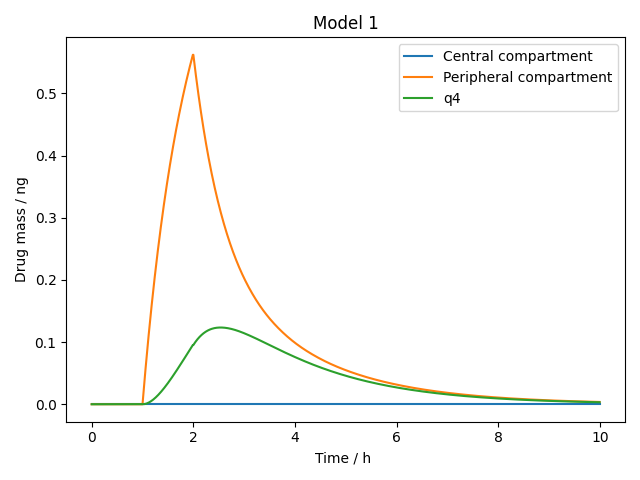
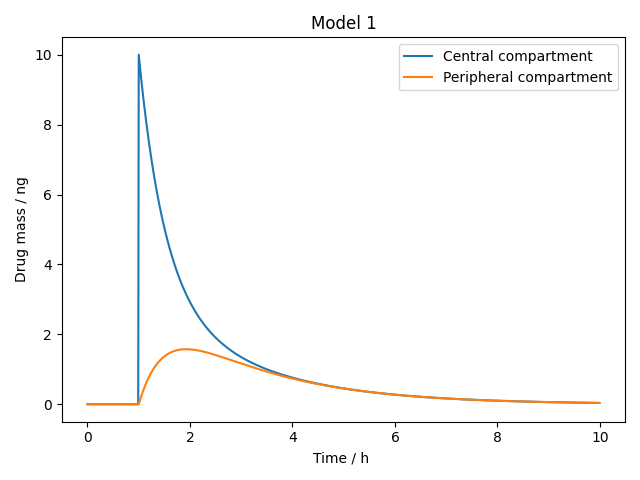
Modify output.py

diff --git a/pkmodel_zxara/output.py b/pkmodel_zxara/output.py
@@ -18,26 +18,27 @@ def plotPK(time, concentration, dosage_comp, n_models=1):
 
     import matplotlib.pyplot as plt
   
-    fig, axes = plt.subplots(nrows= 1, ncols= n_models)
+    fig, axes = plt.subplots(nrows=1, ncols= n_models)
     ylabel = 'Drug mass / ng' # TODO: Conc?
     xlabel = 'Time / h '
-    legend = ['Dosage compartment', 'Central compartment', 'Peripheral compartment', 'q4', 'q5']
+    legend = ['Central compartment']
 
-    # # Strip dosage compartment data if non-existant
-    # if dosage_comp == []:
-    #     np.delete(time, 0, 1)
-    #     np.delete(concentration, 0, 1)
-    #     legend.remove('Dosage compartment')
+    # Strip dosage compartment data if non-existant
+    if dosage_comp == []:
+        time = np.delete(time, 0, 1)
+        concentration = np.delete(concentration, 0, 1)
 
-    if n_models == 1: #otherwise error that AxesSubplot object is not subscriptable
+    if n_models == 1: # Otherwise error that AxesSubplot object is not subscriptable
         axes.plot(time, concentration)
         axes.set_title('Model 1')
         axes.set_ylabel(ylabel)
         axes.set_xlabel(xlabel)
+
+        # Create legend
         axes.legend(legend)
     
     # TODO: Fix for multiple models
-    #  else: 
+    #  else:
 
     #     for i in range(n_models):
             
@@ -48,13 +49,9 @@ def plotPK(time, concentration, dosage_comp, n_models=1):
     #         axes[i].set_xlabel(xlabel)
     #         axes[i].legend(legend)
     
-    
     fig.tight_layout()
     fig.savefig("PKplot.png")
     plt.show()
-
-# plotPK(np.array([[1,2,3],[2,3,1],[3,1,2]]), np.array([[4,5,6],[5,6,4],[6,4,5]])) # this is how i thought the input would look like
-
 
 
 def save_csv(model,dosing_array,max_time,filename):

diff --git a/pkmodel_zxara/core.py b/pkmodel_zxara/core.py
@@ -3,28 +3,31 @@ from model import Model
 import PK_model_setup as pkmod
 from output import *
 
-# Collect model input data 
-central = central_input()
-peripherals = peripheral_input()
-dosage = dosage_input()
+# # Collect model input data 
+# central = central_input()
+# peripherals = peripheral_input()
+# dosage = dosage_input()
 
-sys_model = Model(central, peripherals, dosage) # Create Model object
+# sys_model = Model(central, peripherals, dosage) # Create Model object
 
-# Collect protocol input data
-dosing_array = input_doses()
-MAX_TIME = max_time_input()
+# # Collect protocol input data
+# dosing_array = input_doses()
+# TMAX = max_time_input()
 
-# Add solver here
+# # Add solver here
 
-time_vals, conc_vals = pkmod.PK_solver(sys_model = sys_model, TMAX = MAX_TIME, DOSE_REGIME = dosing_array)
+# time_vals, conc_vals = pkmod.PK_solver(sys_model=sys_model, TMAX=TMAX, DOSE_REGIME=dosing_array)
 
-print(sys_model.dosage)
+sys_model = Model([10,10], [[5,5]], []) # Create Model object
+TMAX = 10
+dosing_array = [[1,1,10]]
+time_vals, conc_vals = pkmod.PK_solver(sys_model=sys_model, TMAX=TMAX, DOSE_REGIME=dosing_array)
 
 plotPK(time_vals, conc_vals, sys_model.dosage)
 # Add plotting here
 
 # Add return graphs and CSV here (CSV currently only outputs model input parameters)
 
-save_csv(sys_model,dosing_array,MAX_TIME,filename = 'prototypemodel')
+save_csv(sys_model, dosing_array, TMAX, filename='prototypemodel')
 
 
